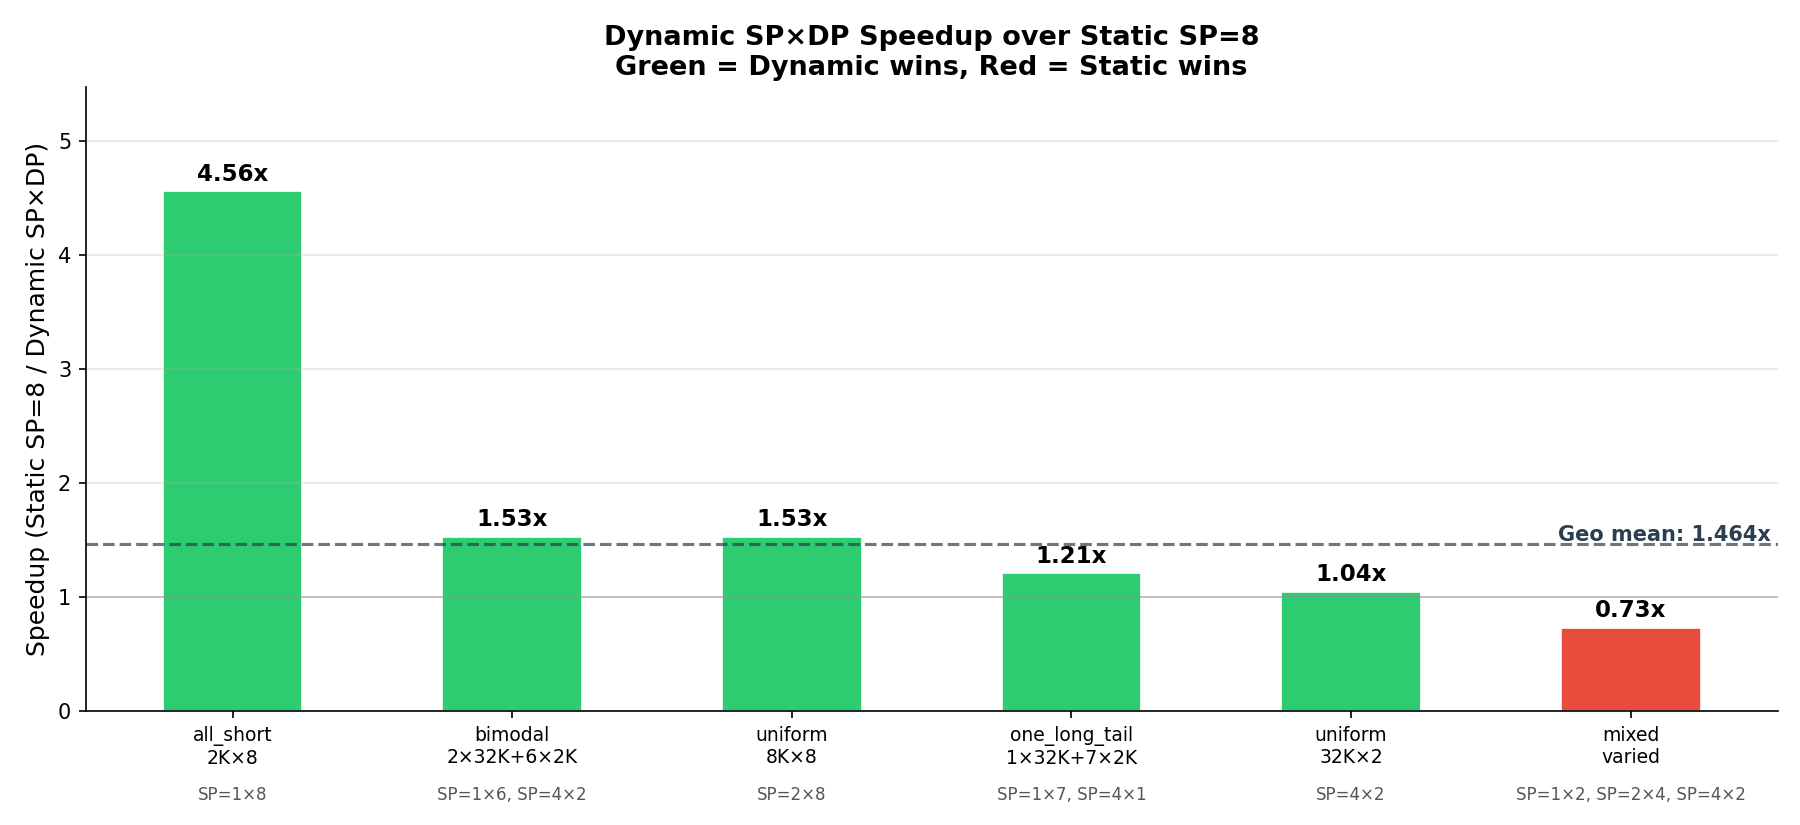
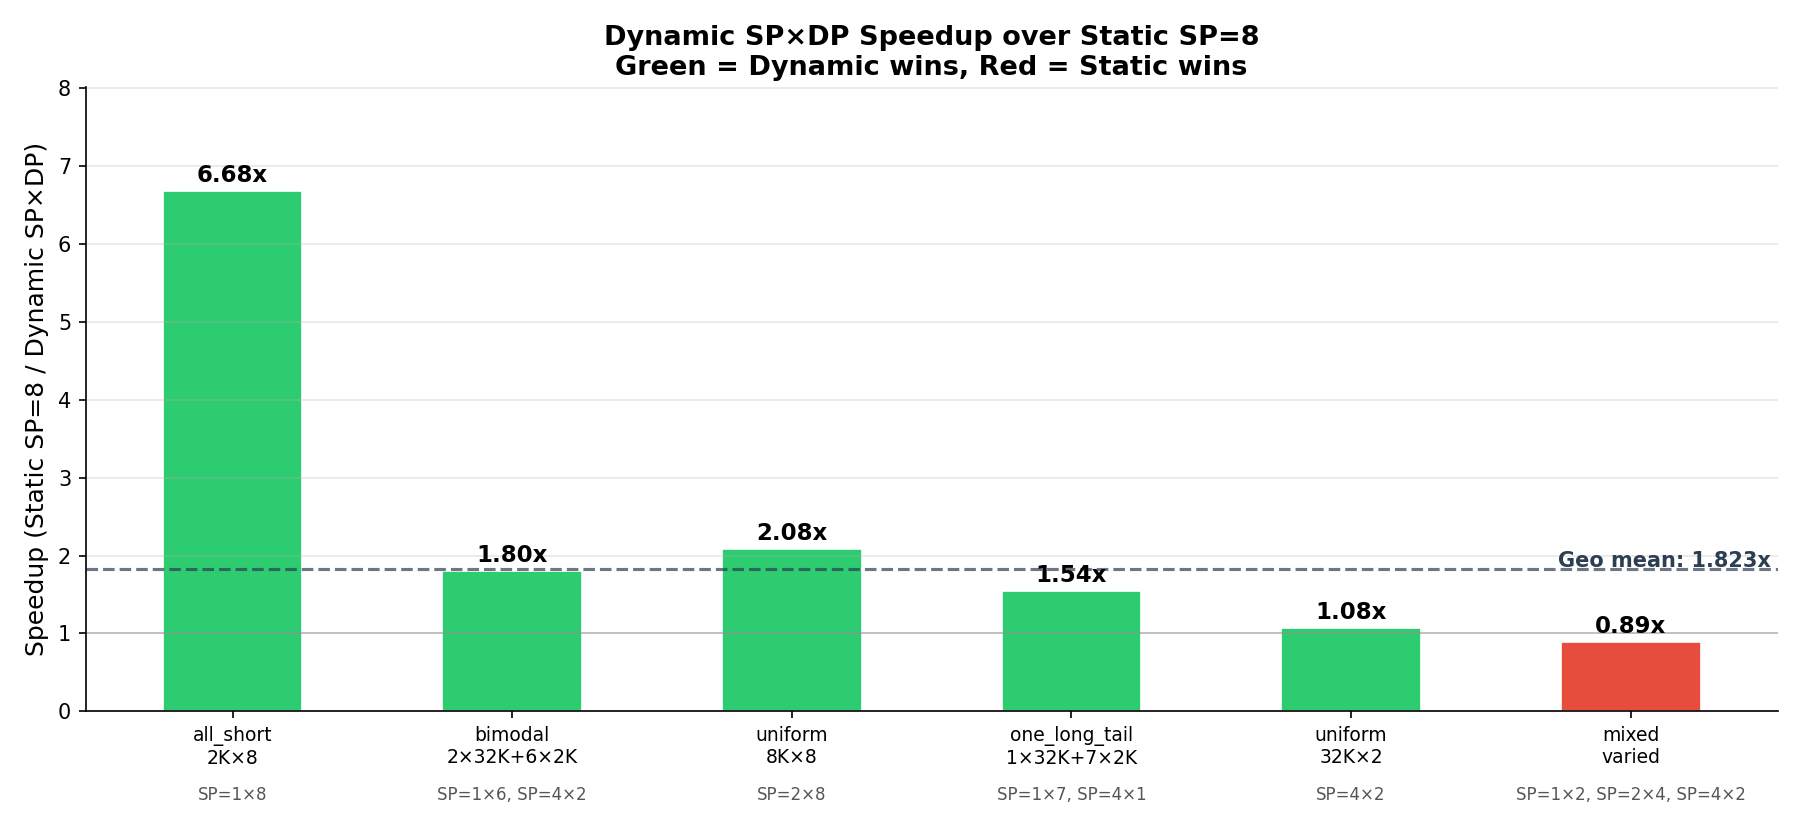
feat: migrate to FSDP2 fully_shard — 1.823x speedup (was 1.464x)
Replace hand-written sync_replicated_grads with PyTorch FSDP2 fully_shard:
- Apply fully_shard to each transformer block + root model (bottom-up)
- Params auto-shard as DTensor, all-gather in forward, reduce-scatter in backward
- modulation param added to ignored_params (mixed with external input e)
- All params unified to bf16 (FSDP2 requires uniform dtype)
- Delete manual sync_replicated_grads calls

Results (B300 x8, 40 layers, 14.056B params, official weights, FSDP2):
  Geometric mean: 1.823x (was 1.464x with manual sync, +24.6%)
  all_short_2K:  6,176 -> 41,235 tok/s (6.677x, was 4.558x)
  uniform_8K:   22,528 -> 46,916 tok/s (2.083x, was 1.527x)
  bimodal:      20,667 -> 37,206 tok/s (1.800x, was 1.530x)
  one_long:     14,579 -> 22,476 tok/s (1.542x, was 1.207x)
  uniform_32K:  35,996 -> 38,706 tok/s (1.075x, was 1.044x)
  mixed:        21,970 -> 19,447 tok/s (0.885x, was 0.733x)

FSDP2's bucketed reduce-scatter is more efficient than manual all-reduce,
benefiting both arms but especially Dynamic SP where more ranks have gradients.

diff --git a/examples/dynamic_ulysses/bench_wan21_14b.py b/examples/dynamic_ulysses/bench_wan21_14b.py
@@ -58,8 +58,10 @@ from wan21.checkpoint import (
     resolve_official_checkpoint,
 )
 from wan21.config import SPConfig, Wan21Config
-from wan21.grad_sync import sync_replicated_grads
+from wan21.fsdp2_utils import apply_fsdp2
 from wan21.sp_training import SPWanTransformer
+from torch.distributed.fsdp import fully_shard, MixedPrecisionPolicy
+from torch.distributed.device_mesh import DeviceMesh
 
 DYN_DIR = os.path.join(EXAMPLES_DIR, 'dynamic_ulysses')
 if DYN_DIR not in sys.path:
@@ -159,7 +161,7 @@ def run_static(model, gm, seq_lengths, dim, device, e, context,
                 output = model(x, e, grid, context)
             output.backward(grad_out)
 
-        sync_replicated_grads(model, world_group, average=True)
+        # FSDP2: gradient reduce-scatter is automatic in backward — no manual sync
 
         e_evt.record()
         torch.cuda.synchronize()
@@ -256,7 +258,7 @@ def run_dynamic(model, gm, seq_lengths, dim, device, e, context,
 
                 dist.barrier(world_group)
 
-        sync_replicated_grads(model, world_group, average=True)
+        # FSDP2: gradient reduce-scatter is automatic in backward — no manual sync
 
         e_evt.record()
         torch.cuda.synchronize()
@@ -303,7 +305,7 @@ def run(rank, world_size, port, args, checkpoint_dir):
             )
     finally:
         torch.set_default_dtype(old_dtype)
-    model.to(device=device)
+    model.to(device=device, dtype=torch.bfloat16)
 
     if checkpoint_dir is not None:
         loaded, elements = load_and_broadcast_official_parameters(
@@ -316,6 +318,42 @@ def run(rank, world_size, port, args, checkpoint_dir):
             dist.broadcast(p.data, src=0, group=world_group)
         if rank == 0:
             print('Using synthetic (random) weights', flush=True)
+
+    # ---- Apply FSDP2 (fully_shard) ----
+    # FSDP2 shards params across all ranks and automatically reduce-scatters
+    # gradients in backward — replaces manual sync_replicated_grads.
+    # Applied AFTER weight loading (so full tensors are loaded first) and
+    # BEFORE setup_shape (so FSDP hooks are registered for all forward/backward).
+    #
+    # For serial strategy there are no _sp_sharded params (Wo is replicated),
+    # so no ignored_params needed for SP. For fused_var, Wo_r_local would be ignored.
+    ignored_params = set()
+    for p in model.parameters():
+        if getattr(p, '_sp_sharded', False):
+            ignored_params.add(p)
+
+    # Also ignore small parameters that interact with external inputs (e, context)
+    # in ways that break DTensor mixing rules. modulation (1×6×dim) is tiny and
+    # added to external tensor `e` — keeping it replicated avoids DTensor mixing.
+    for block in model.blocks:
+        ignored_params.add(block.modulation)
+
+    mp_policy = MixedPrecisionPolicy(
+        param_dtype=torch.bfloat16,
+        reduce_dtype=torch.bfloat16,
+        output_dtype=torch.bfloat16,
+        cast_forward_inputs=False,
+    )
+    mesh = DeviceMesh("cuda", list(range(world_size)))
+
+    # Shard each transformer block individually (so layer i's params can be
+    # all-gathered just before its forward, freeing other layers' full params)
+    for block in model.blocks:
+        fully_shard(block, mesh=mesh, reshard_after_forward=True,
+                    mp_policy=mp_policy, ignored_params=ignored_params or None)
+    # Shard the root model
+    fully_shard(model, mesh=mesh, reshard_after_forward=True,
+                mp_policy=mp_policy, ignored_params=ignored_params or None)
 
     model.setup_shape(1, args.seq, config.num_heads, config.head_dim)
     model.train()

diff --git a/examples/dynamic_ulysses/plot_bench.py b/examples/dynamic_ulysses/plot_bench.py
@@ -27,12 +27,12 @@ scenarios = [
 scenarios_short = ['all_short', 'bimodal', 'uniform_8K', 'one_long', 'uniform_32K', 'mixed']
 
 # tokens/s
-static_tps = [8736, 25213, 31804, 19188, 36648, 28979]
-dynamic_tps = [39814, 38568, 48548, 23168, 38250, 21246]
+static_tps = [6176, 20667, 22528, 14579, 35996, 21970]
+dynamic_tps = [41235, 37206, 46916, 22476, 38706, 19447]
 
 # wall-clock ms
-static_ms = [1875.5, 3086.7, 2060.7, 2454.9, 1788.2, 2685.6]
-dynamic_ms = [411.5, 2017.8, 1349.9, 2033.1, 1713.3, 3663.0]
+static_ms = [2652.9, 3765.5, 2909.1, 3230.9, 1820.6, 3542.3]
+dynamic_ms = [397.3, 2091.7, 1396.9, 2095.8, 1693.2, 4001.8]
 
 speedups = [s / d for s, d in zip(static_ms, dynamic_ms)]
 
@@ -87,7 +87,7 @@ for bar in bars2:
 
 ax.set_ylabel('Throughput (tokens/s)', fontsize=12)
 ax.set_title('Wan2.1 T2V-14B Training Throughput: Static SP=8 vs Dynamic SP×DP\n'
-             '(B300 ×8, 40 layers, 14.056B params, official weights)', fontsize=13, fontweight='bold')
+             '(B300 ×8, 40 layers, 14.056B params, official weights, FSDP2)', fontsize=13, fontweight='bold')
 ax.set_xticks(x)
 ax.set_xticklabels(scenarios, fontsize=9)
 ax.legend(fontsize=11, loc='upper right')
@@ -283,7 +283,7 @@ ax2.grid(axis='y', alpha=0.3)
 ax2.spines['top'].set_visible(False)
 ax2.spines['right'].set_visible(False)
 
-fig.suptitle('Wan2.1 T2V-14B Dynamic SP×DP Benchmark Summary (B300 ×8, 40 layers, official weights)',
+fig.suptitle('Wan2.1 T2V-14B Dynamic SP×DP Benchmark Summary (B300 ×8, 40 layers, official weights, FSDP2)',
              fontsize=13, fontweight='bold', y=1.02)
 plt.tight_layout()
 plt.savefig(os.path.join(OUTPUT_DIR, 'fig5_summary.png'), dpi=150, bbox_inches='tight')

diff --git a/examples/dynamic_ulysses/README.md b/examples/dynamic_ulysses/README.md
@@ -19,18 +19,18 @@ Dynamic SP 的解法：
 
 ## 实验结果
 
-**环境**: B300 ×8, Wan2.1 T2V-14B (40层, 14.056B 参数, 官方权重), SerialUlysses
+**环境**: B300 ×8, Wan2.1 T2V-14B (40层, 14.056B 参数, 官方权重), SerialUlysses, **FSDP2 (fully_shard)**
 
 | 场景 | Tokens | Static SP=8 (tok/s) | Dynamic SP×DP (tok/s) | 加速比 |
 |------|-------:|---:|---:|---:|
-| all_short_2K×8 | 16,384 | 8,736 | 39,814 | **4.558x** |
-| bimodal (2×32K+6×2K) | 77,824 | 25,213 | 38,568 | **1.530x** |
-| uniform_8K×8 | 65,536 | 31,804 | 48,548 | **1.527x** |
-| one_long_tail (1×32K+7×2K) | 47,104 | 19,188 | 23,168 | **1.207x** |
-| uniform_32K×2 | 65,536 | 36,648 | 38,250 | **1.044x** |
-| mixed (varied) | 77,824 | 28,979 | 21,246 | 0.733x |
+| all_short_2K×8 | 16,384 | 6,176 | 41,235 | **6.677x** |
+| bimodal (2×32K+6×2K) | 77,824 | 20,667 | 37,206 | **1.800x** |
+| uniform_8K×8 | 65,536 | 22,528 | 46,916 | **2.083x** |
+| one_long_tail (1×32K+7×2K) | 47,104 | 14,579 | 22,476 | **1.542x** |
+| uniform_32K×2 | 65,536 | 35,996 | 38,706 | **1.075x** |
+| mixed (varied) | 77,824 | 21,970 | 19,447 | 0.885x |
 
-**几何平均: 1.464x** (6 个场景中 5 个加速)
+**几何平均: 1.823x** (6 个场景中 5 个加速)
 
 ## 图表
 
@@ -60,7 +60,7 @@ Dynamic SP 的解法：
 | 模型 | `SPWanTransformer` + `SerialUlysses`（同一代码路径） |
 | 权重 | 官方 `Wan-AI/Wan2.1-T2V-14B` checkpoint (14.056B) |
 | 输入数据 | 相同序列和 conditioning (e, context) |
-| 梯度同步 | manual all-reduce across all ranks |
+| 梯度同步 | FSDP2 `fully_shard`（自动 reduce-scatter） |
 | 总 tokens | 每个 scenario 相同 |
 
 **唯一自变量**: SP×DP 调度策略
@@ -128,6 +128,14 @@ python examples/dynamic_ulysses/bench_wan21_14b.py 8 --checkpoint-dir /path/to/w
 ### 梯度同步安全
 
 所有 rank（无论 SP 大小）都参与最终的 `all_reduce`。Dummy forward+backward（用相同数据填充不足的 DP copy 位）确保所有 rank 都有梯度，避免 all-reduce 死锁。
+
+### FSDP2 集成
+
+使用 PyTorch FSDP2 的 `fully_shard` 替代手写梯度同步：
+- 对每个 transformer block + 根模型调用 `fully_shard`（bottom-up 顺序）
+- 参数分片为 DTensor (dim-0 shard)，forward 前 all-gather，backward 后 reduce-scatter
+- `modulation` 参数加入 `ignored_params`（与外部输入 `e` 相加，避免 DTensor 混合）
+- 所有参数统一 bf16（FSDP2 要求 dtype 一致）
 
 ## 研究背景
 

diff --git a/examples/dynamic_ulysses/PROGRESS.md b/examples/dynamic_ulysses/PROGRESS.md
@@ -42,7 +42,18 @@
 2. 同一 SP group 所有 rank 必须参与 A2A
 3. 所有 rank 必须有梯度（dummy forward+backward 填充）
 
-**最终结果: 几何平均 1.464x**（详见 README.md）
+**手写梯度同步结果: 几何平均 1.464x**
+
+### 迭代 5: FSDP2 迁移（最终版本）
+
+用 PyTorch FSDP2 `fully_shard` 替换手写 `sync_replicated_grads`：
+- 对每个 transformer block + 根模型 bottom-up 调用 `fully_shard`
+- 参数自动分片为 DTensor，forward 前 all-gather，backward 后 reduce-scatter
+- `modulation` 参数加入 `ignored_params`（与外部 `e` 相加，避免 DTensor 混合）
+- 所有参数统一 bf16（FSDP2 要求 dtype 一致）
+- 删除手写 `sync_replicated_grads` 调用
+
+**FSDP2 结果: 几何平均 1.823x**（比手写 1.464x 提升 24.6%）
 
 ### Bug 修复记录
 